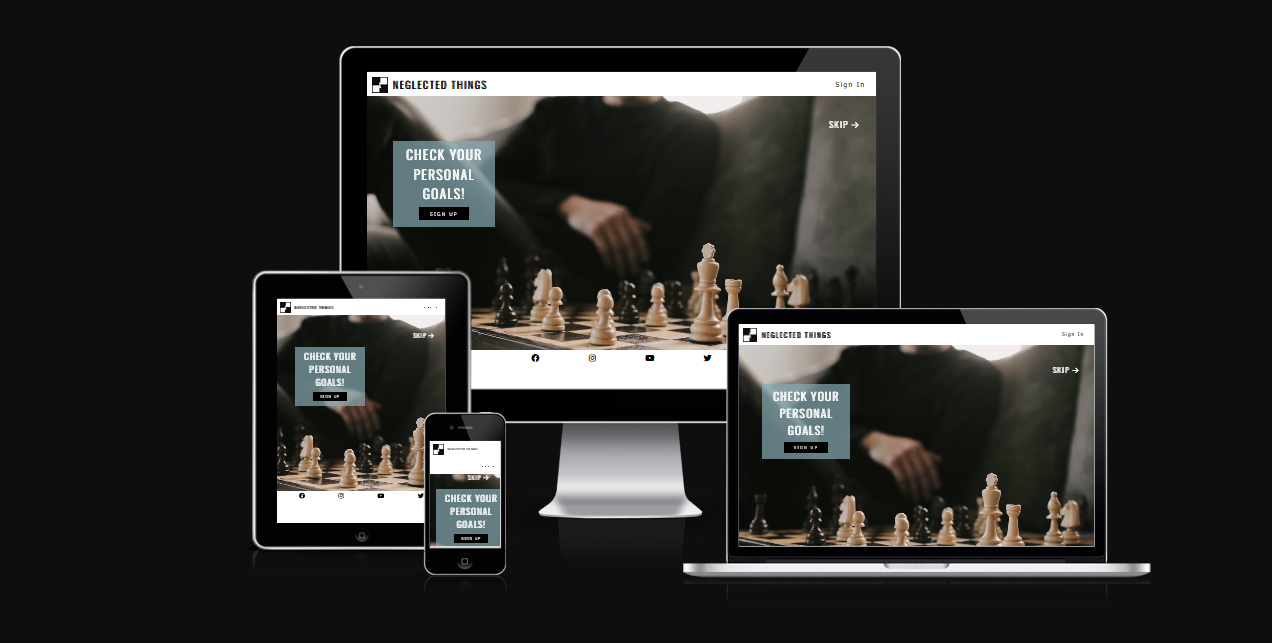
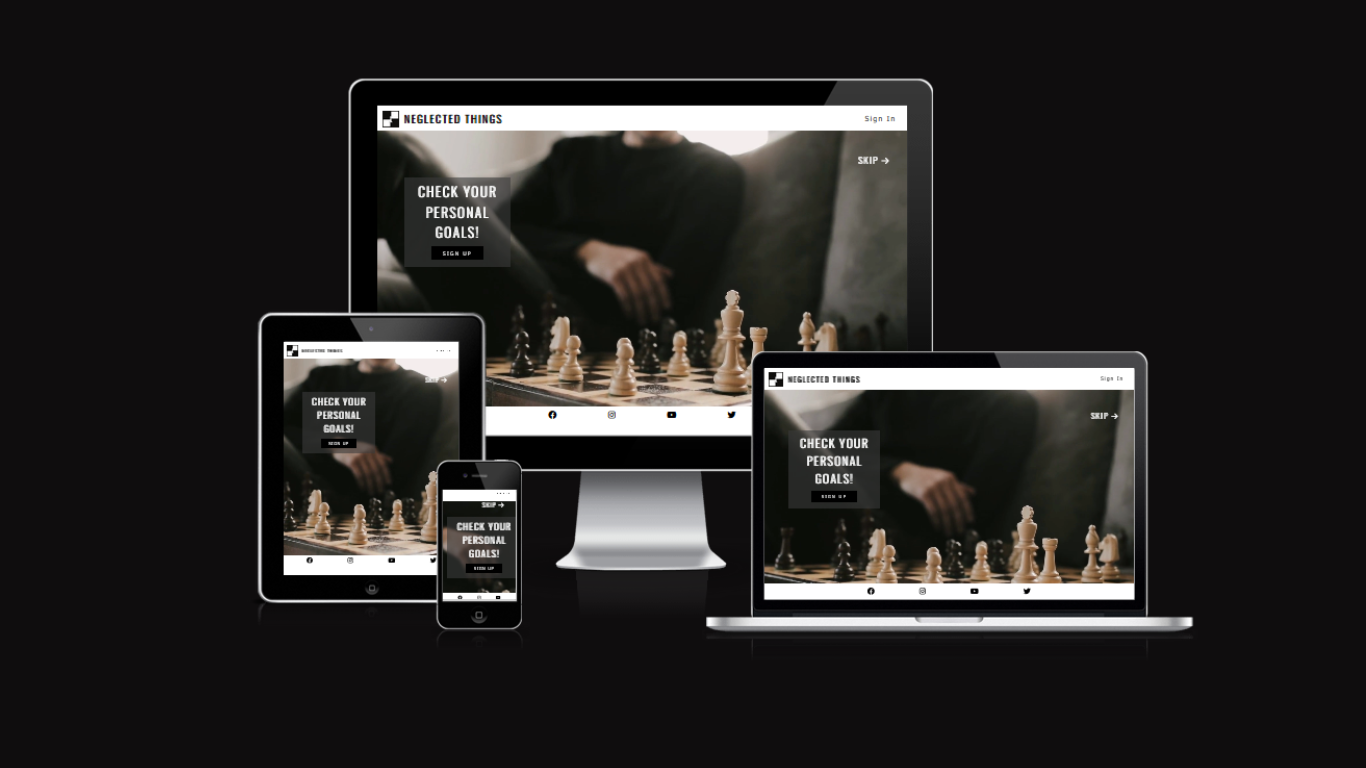
Styles changes aplied to comply with accessibility standards

Changed region(s): [[0.184, 0.0622, 0.9198, 0.902]]

diff --git a/index.html b/index.html
@@ -17,8 +17,8 @@
     <header>
         <div>
             <a href="home.html" title="Home" aria-label="Go to Home page"><img id="logo-image"
-                    src="assets/images/negthinlogo.png" alt="Logo image" aria-label="Go to Home page"></a>
-            <a id="logo-text" href="home.html" aria-label="Go to Home page">Neglected Things</a>
+                    src="assets/images/negthinlogo.png" alt="Neglected Things' logo" aria-label="Go to Home page"></a>
+            <a id="logo-text" href="home.html" aria-label="Go to main page">Neglected Things</a>
             <button id="header-button">
                 <a href="sign-in.html" aria-label="Go to Sign In page"> Sign In</a>
             </button>
@@ -27,7 +27,7 @@
 
     <section>
         <div id="checkmate-video">
-            <video autoplay muted src="assets/video/checkmate.mp4" type="video/mp4"></video>
+            <video autoplay muted src="assets/video/checkmate.mp4" type="video/mp4" aria-label="Short clip of a man playing chess board game. No sound"></video>
         </div>
         <div id="cover-text-video">
             <h1>CHECK your<br>personal goals!</h1>

diff --git a/assets/css/style.css b/assets/css/style.css
@@ -187,6 +187,8 @@ h2 {
 
 #skip-button i {
     color: white;
+    background-color: black;
+    font-size: 1.2em;
 }
 
 #skip-button i:hover {
